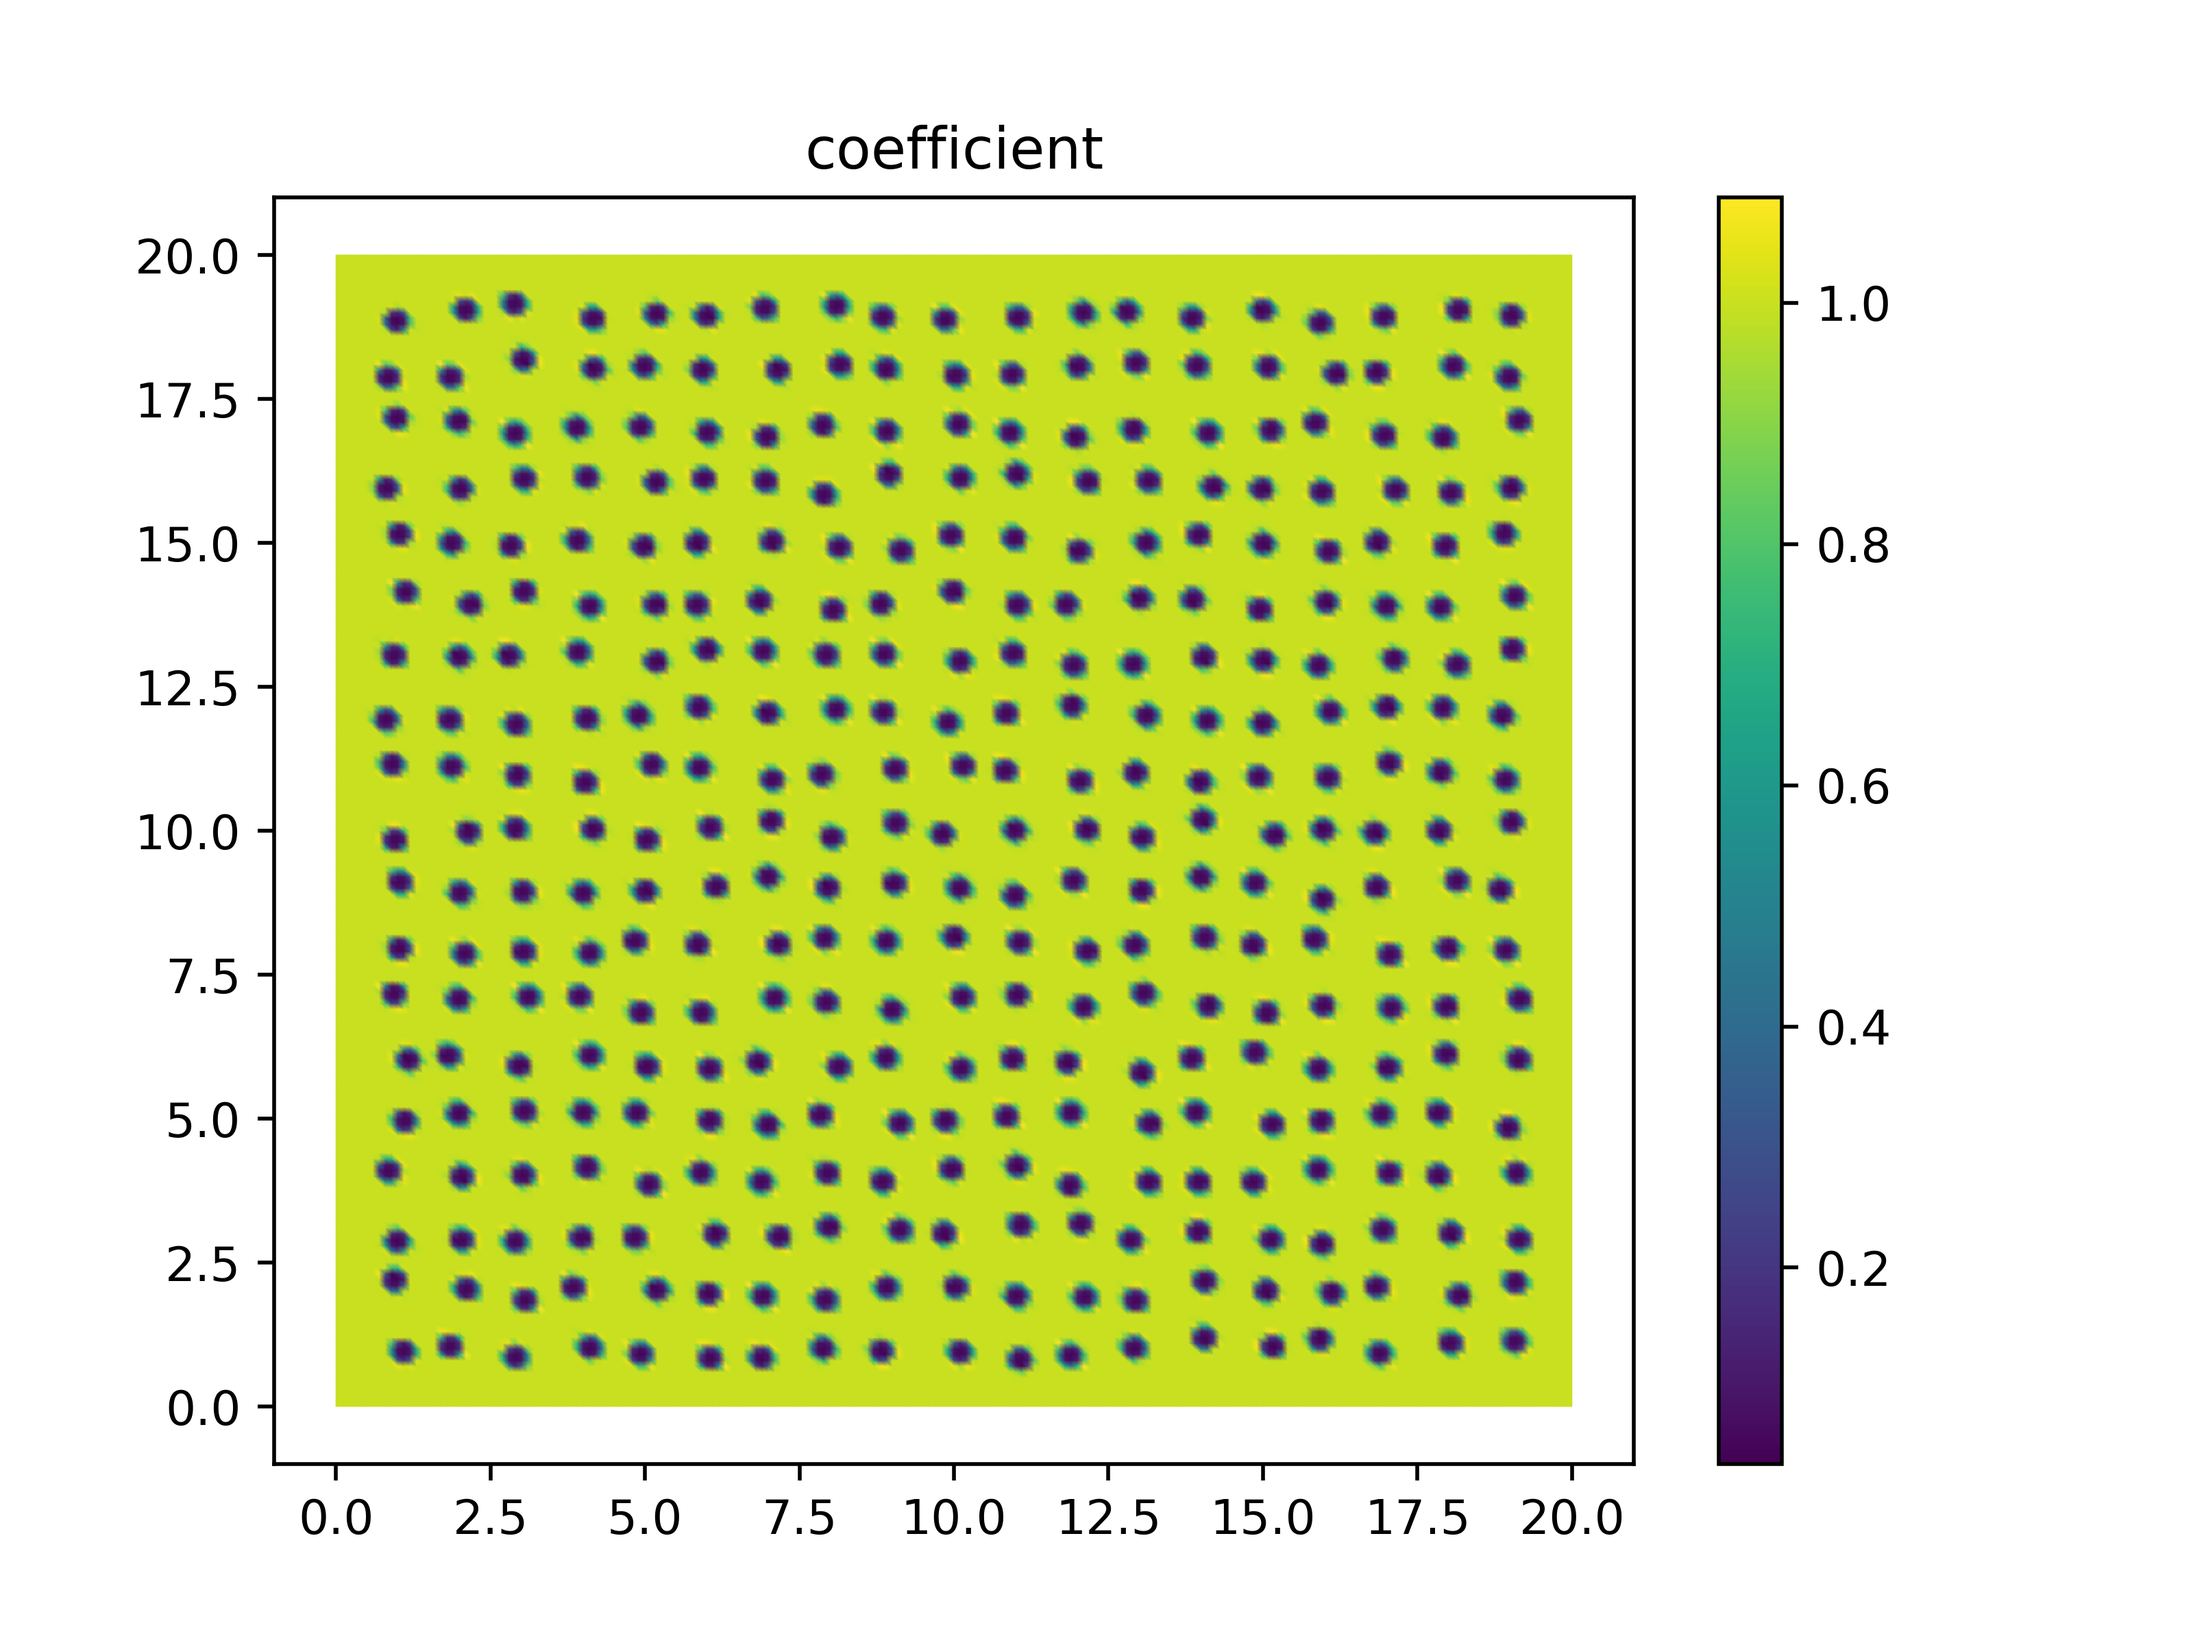
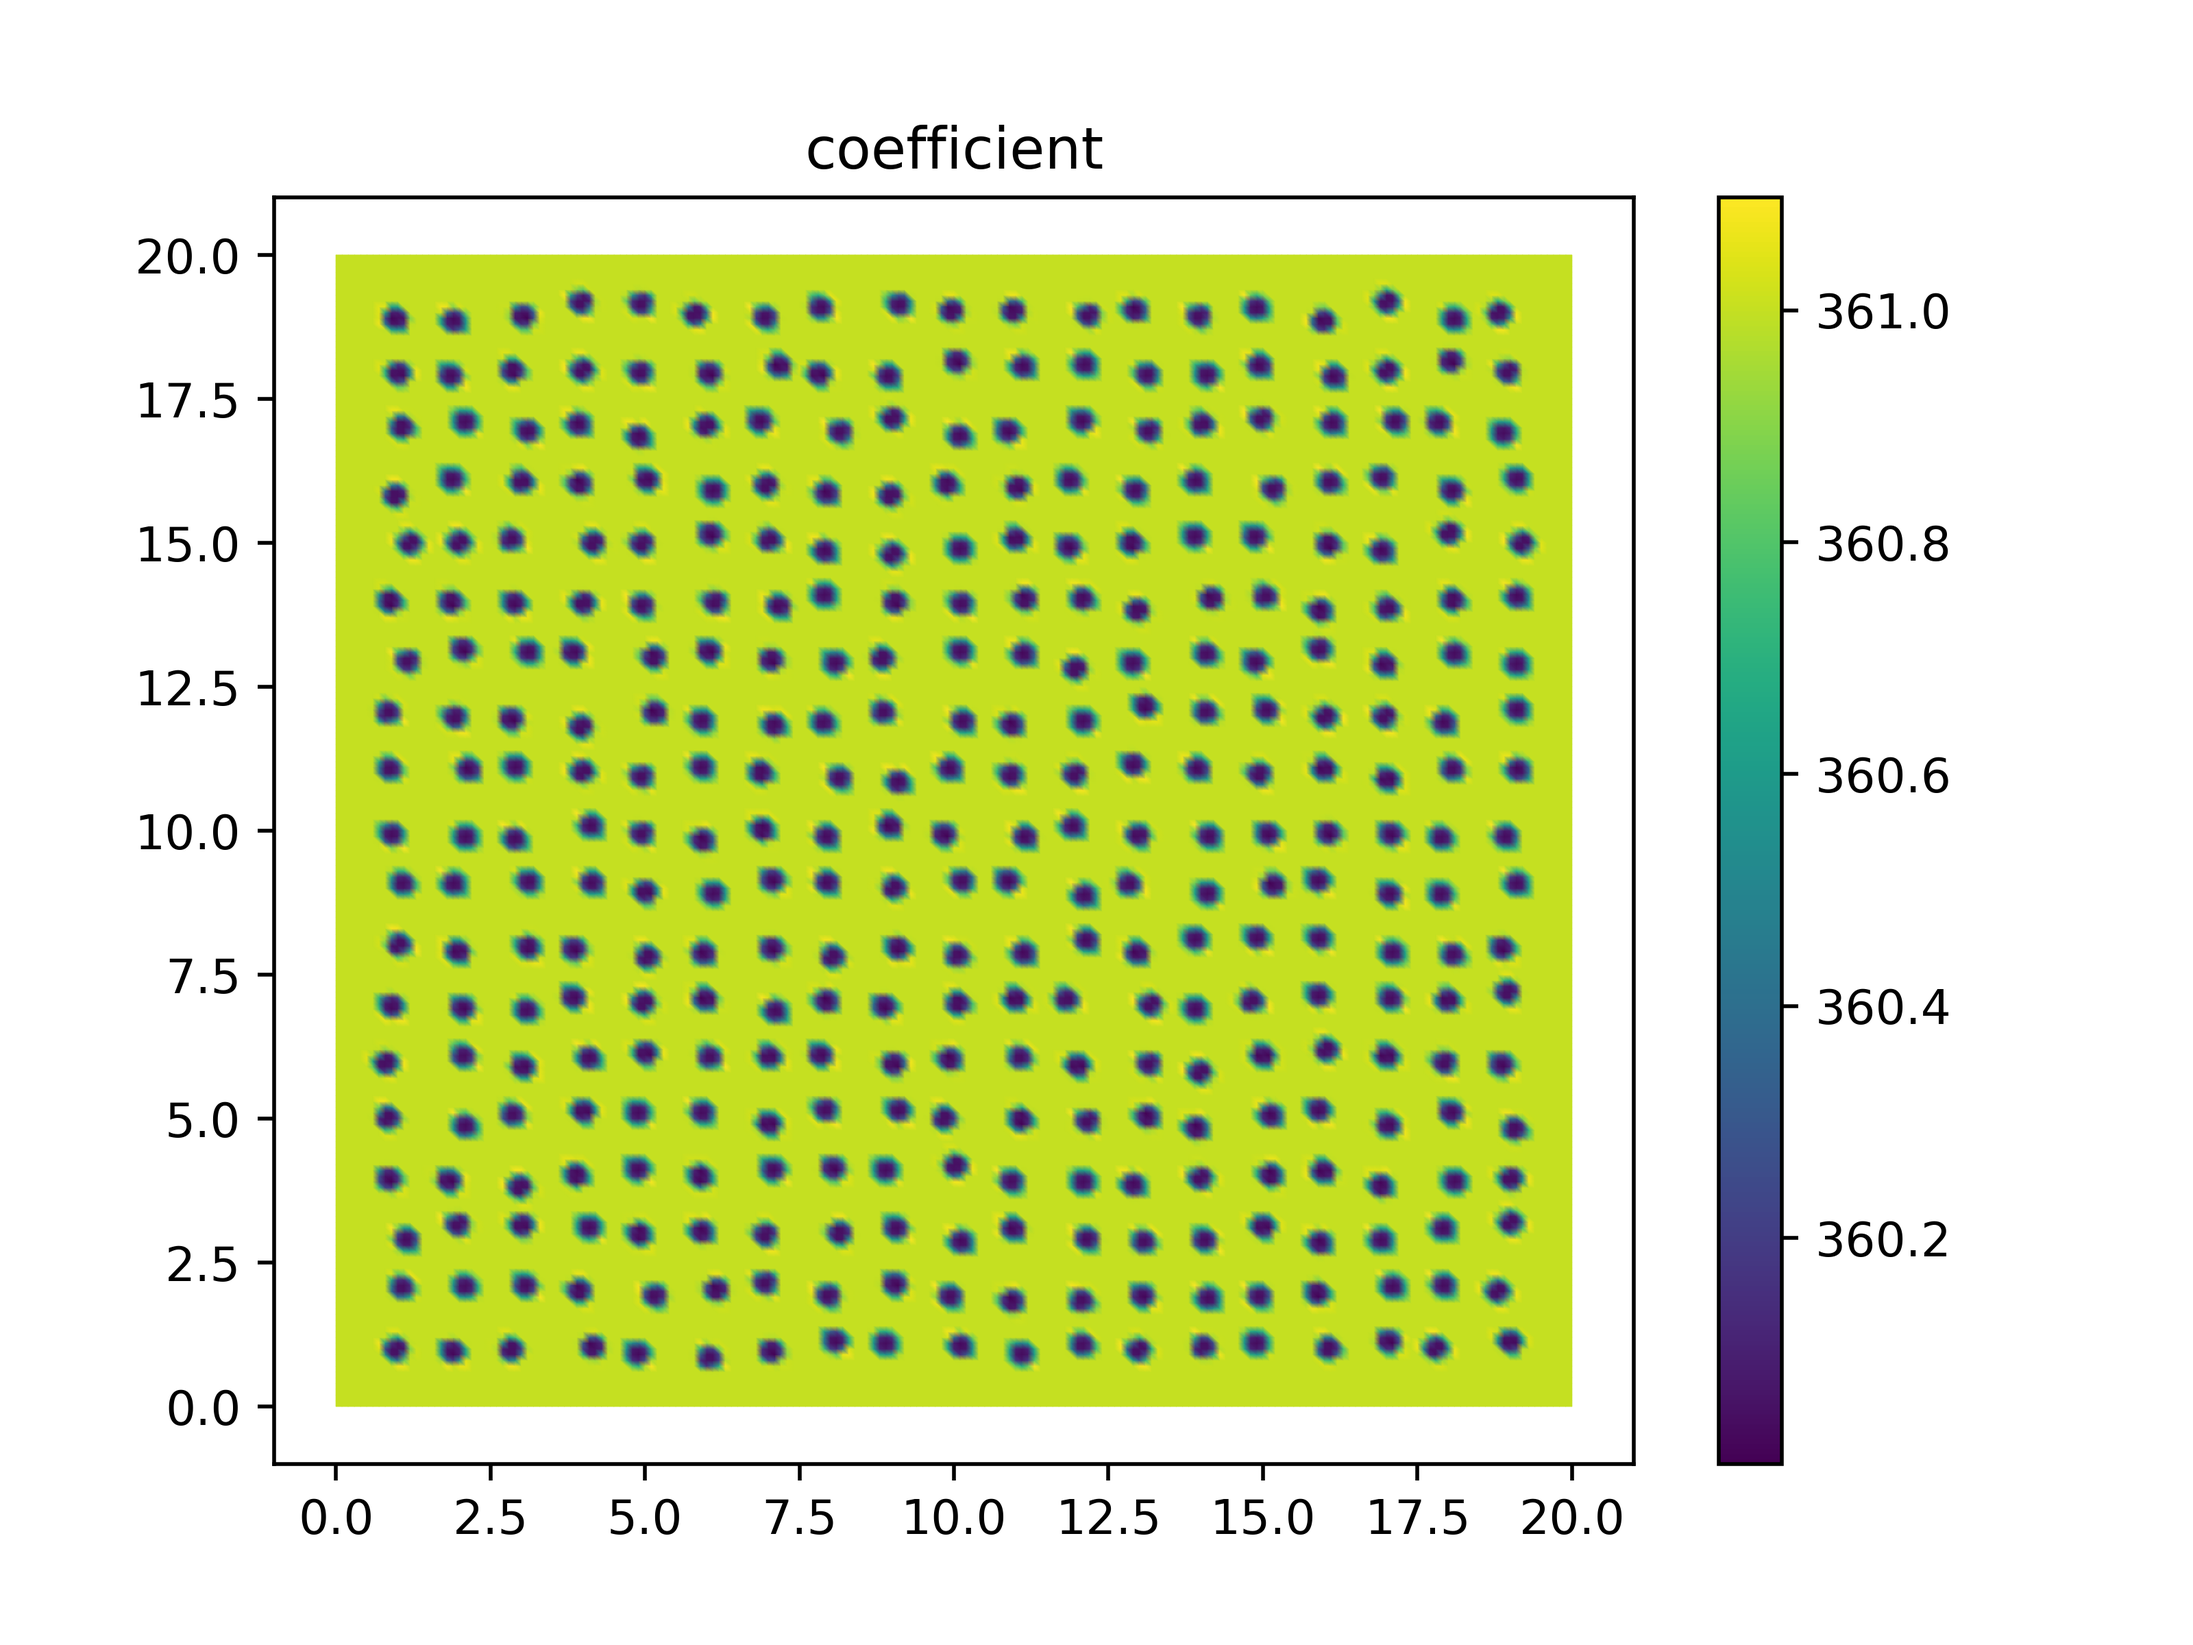
update

diff --git a/2d/test.py b/2d/test.py
@@ -20,14 +20,15 @@ U2 = np.random.uniform(size = nn**2)
 r = 0.2
 dn1 = r * np.sqrt(U2) * np.cos(2 * np.pi * U1)
 dn2 = r * np.sqrt(U2) * np.sin(2 * np.pi * U1)
-Fs=Constant(0.0)
+A=Function(FunctionSpace(mesh, 'CG', 3))
 for i in range(0,nn):
    for j in range(0,nn):
       x_center=[i+1+dn1[i*nn+j],j+1+dn2[i*nn+j]]
       fi= conditional(((x-x_center[0])**2+(y-x_center[1])**2)**0.5>s,0,20*(1-((x-x_center[0])**2+(y-x_center[1])**2)/pow(s,2))**3*(3*((x-x_center[0])**2+(y-x_center[1])**2)+1))
-      Fi=assemble(interpolate(fi, FunctionSpace(mesh, 'CG', 5)))
-      Fs=Fs+Fi
-A=assemble(interpolate(1.0/(1.0+Fs), FunctionSpace(mesh, 'CG', 5)))
+      Fi=assemble(interpolate(1.0/(1.0+fi), FunctionSpace(mesh, 'CG', 3)))
+      A+=Fi
+#print('defining coefficients')
+#A=assemble(interpolate(1.0/(1.0+Fs), FunctionSpace(mesh, 'CG', 3)))
 # evaluate coefficient, save to file and plot
 plt.clf()
 fig, axes = plt.subplots()
